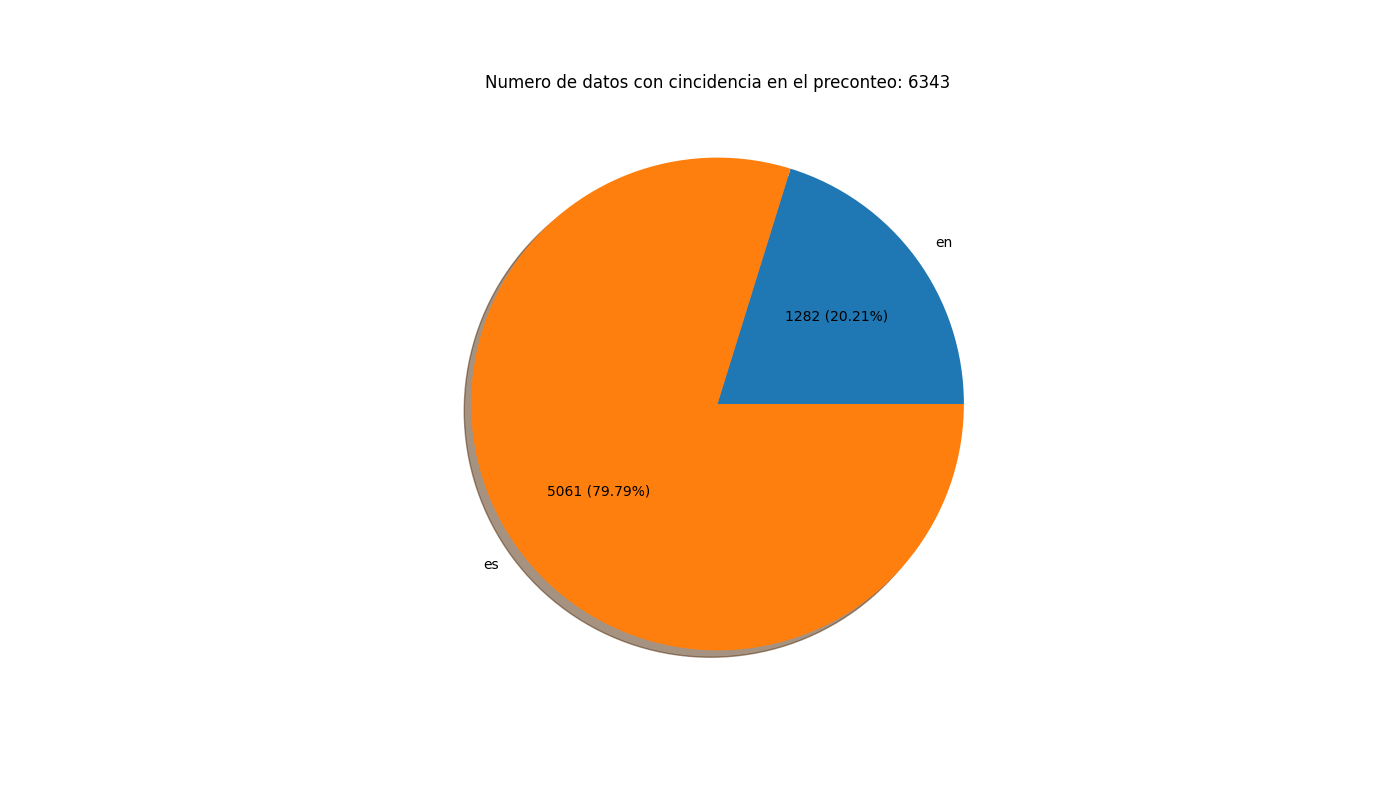
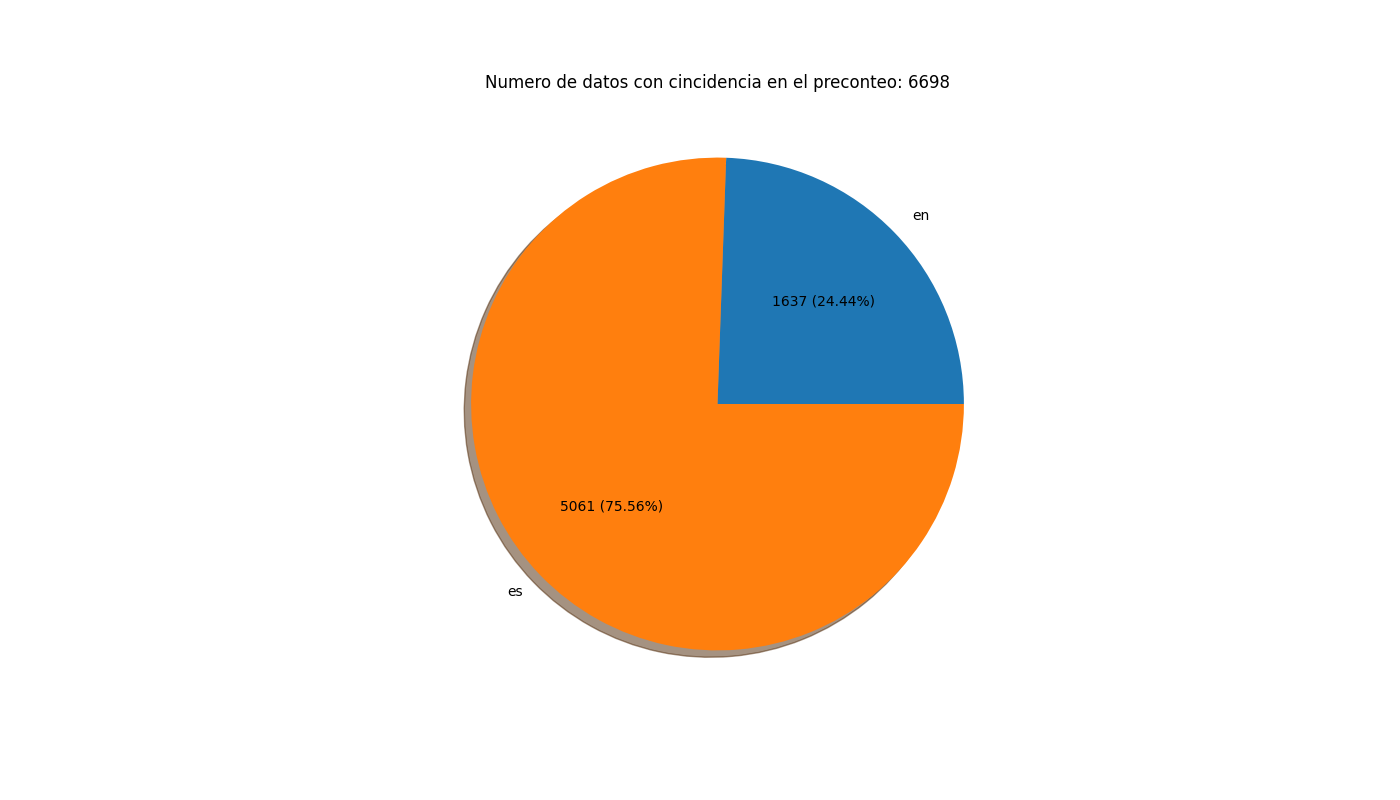
ya no logre nada mejor

Changed region(s): [[0.4914, 0.1875, 0.645, 0.5], [0.3993, 0.5938, 0.4607, 0.6562], [0.645, 0.0938, 0.6757, 0.125]]

diff --git a/captura_de_datos/filter_data.py b/captura_de_datos/filter_data.py
@@ -7,7 +7,7 @@ import unidecode
 # pip3 install -r requirements.txt <---- por si da flojera instalarlos a mano.
 
 
-numero_muestras = 3500
+numero_muestras = 5100
 
 output_path1 = "./twitter_data/datos_en_bruto/catched_tweets_full_data.csv"
 output_path_m1_en = "./twitter_data/datos_para_tageo_mourning/en_prefiltered_mourning.csv"
@@ -89,9 +89,35 @@ tags_ingles = [
     'tears of pain',
     'glory of god',
     'regret death',
+    'im sorry',
+    'i care about you',
+    'she will be dearly missed',
+    'he will be dearly missed',
+    'she is in my thoughts and prayers',
+    'he is in my thoughts and prayers',
+    'you and your family are in my thoughts and prayers',
+    'you are important to me',
+    'my condolences',
+    'i hope you find some peace today',
+    'i am saddened to hear about',
     'holy glory',
     ' mourning ',
-    ' grieving '
+    ' grieving ',
+    ' condolences ',
+    'she is in a better place',
+    'he is in a better place',
+    'you have an angel in heaven',
+    'she is no longer suffering',
+    'he is no longer suffering',
+    'she is with god now',
+    'he is with god now',
+    'they are with god now',
+    ' lamentation ',
+    ' lament ',
+    ' keening ',
+    ' wailing ',
+    ' weeping ',
+    ' sorrow '
 ]
 
 tags_ingles = [stemmer_en.stem(unidecode.unidecode(unicode(w, "utf-8"))).lower() for w in (tags_ingles)]

diff --git a/captura_de_datos/data_analysis.py b/captura_de_datos/data_analysis.py
@@ -76,9 +76,35 @@ tags_ingles = [
     'tears of pain',
     'glory of god',
     'regret death',
+    'im sorry',
+    'i care about you',
+    'she will be dearly missed',
+    'he will be dearly missed',
+    'she is in my thoughts and prayers',
+    'he is in my thoughts and prayers',
+    'you and your family are in my thoughts and prayers',
+    'you are important to me',
+    'my condolences',
+    'i hope you find some peace today',
+    'i am saddened to hear about',
     'holy glory',
     ' mourning ',
-    ' grieving '
+    ' grieving ',
+    ' condolences ',
+    'she is in a better place',
+    'he is in a better place',
+    'you have an angel in heaven',
+    'she is no longer suffering',
+    'he is no longer suffering',
+    'she is with god now',
+    'he is with god now',
+    'they are with god now',
+    ' lamentation ',
+    ' lament ',
+    ' keening ',
+    ' wailing ',
+    ' weeping ',
+    ' sorrow '
 ]
 
 tags_ingles = [stemmer_en.stem(unidecode.unidecode(unicode(w, "utf-8"))).lower() for w in (tags_ingles)]
